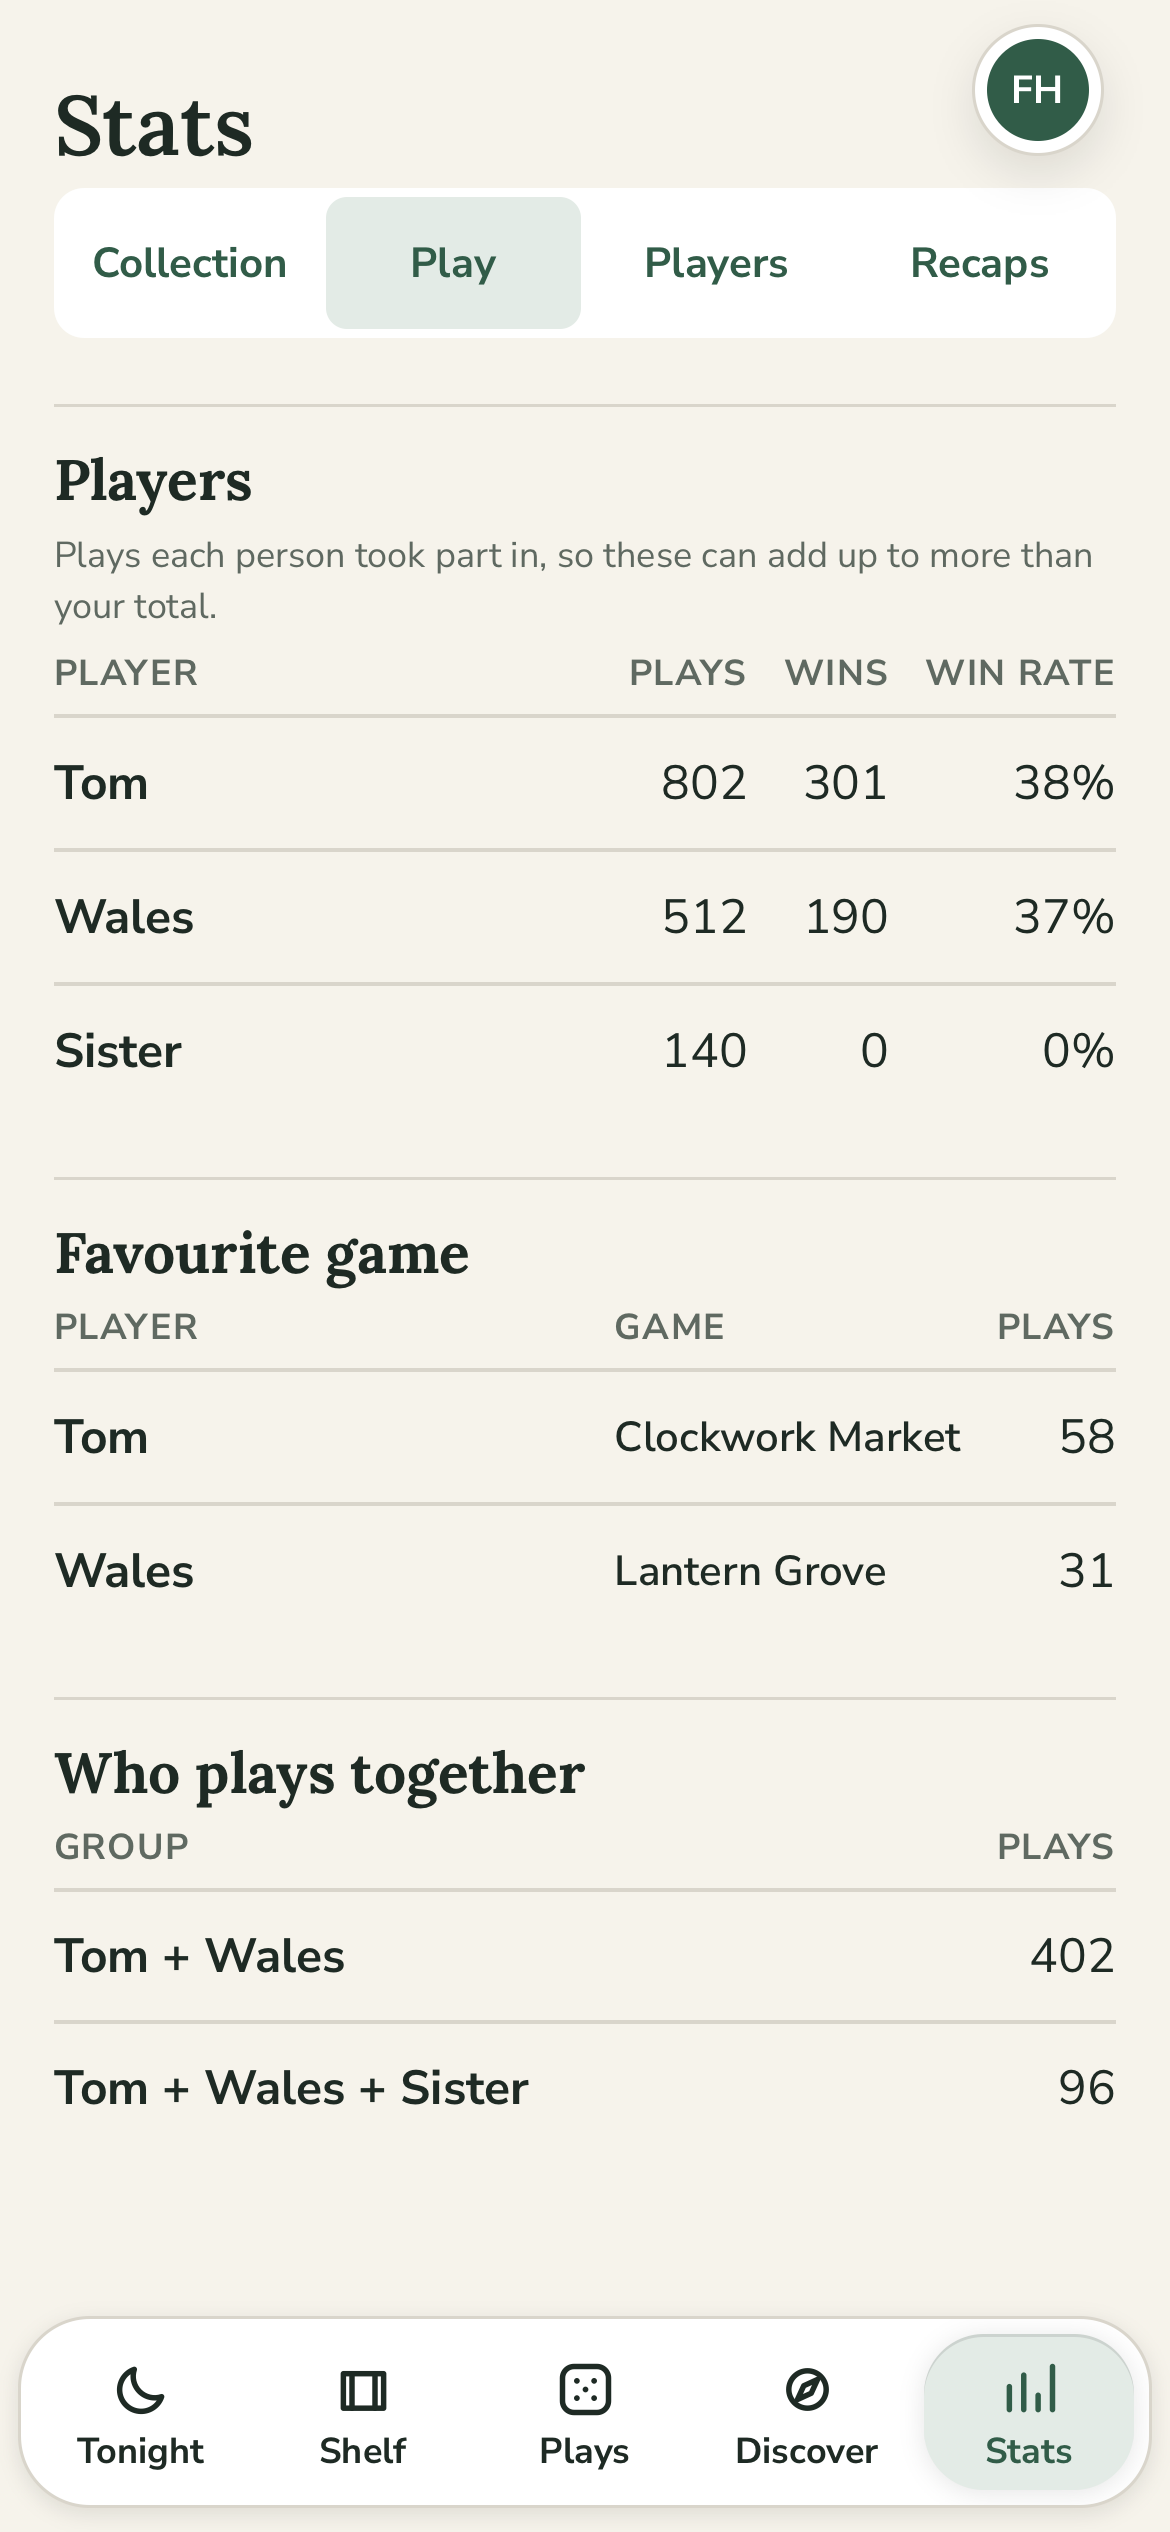
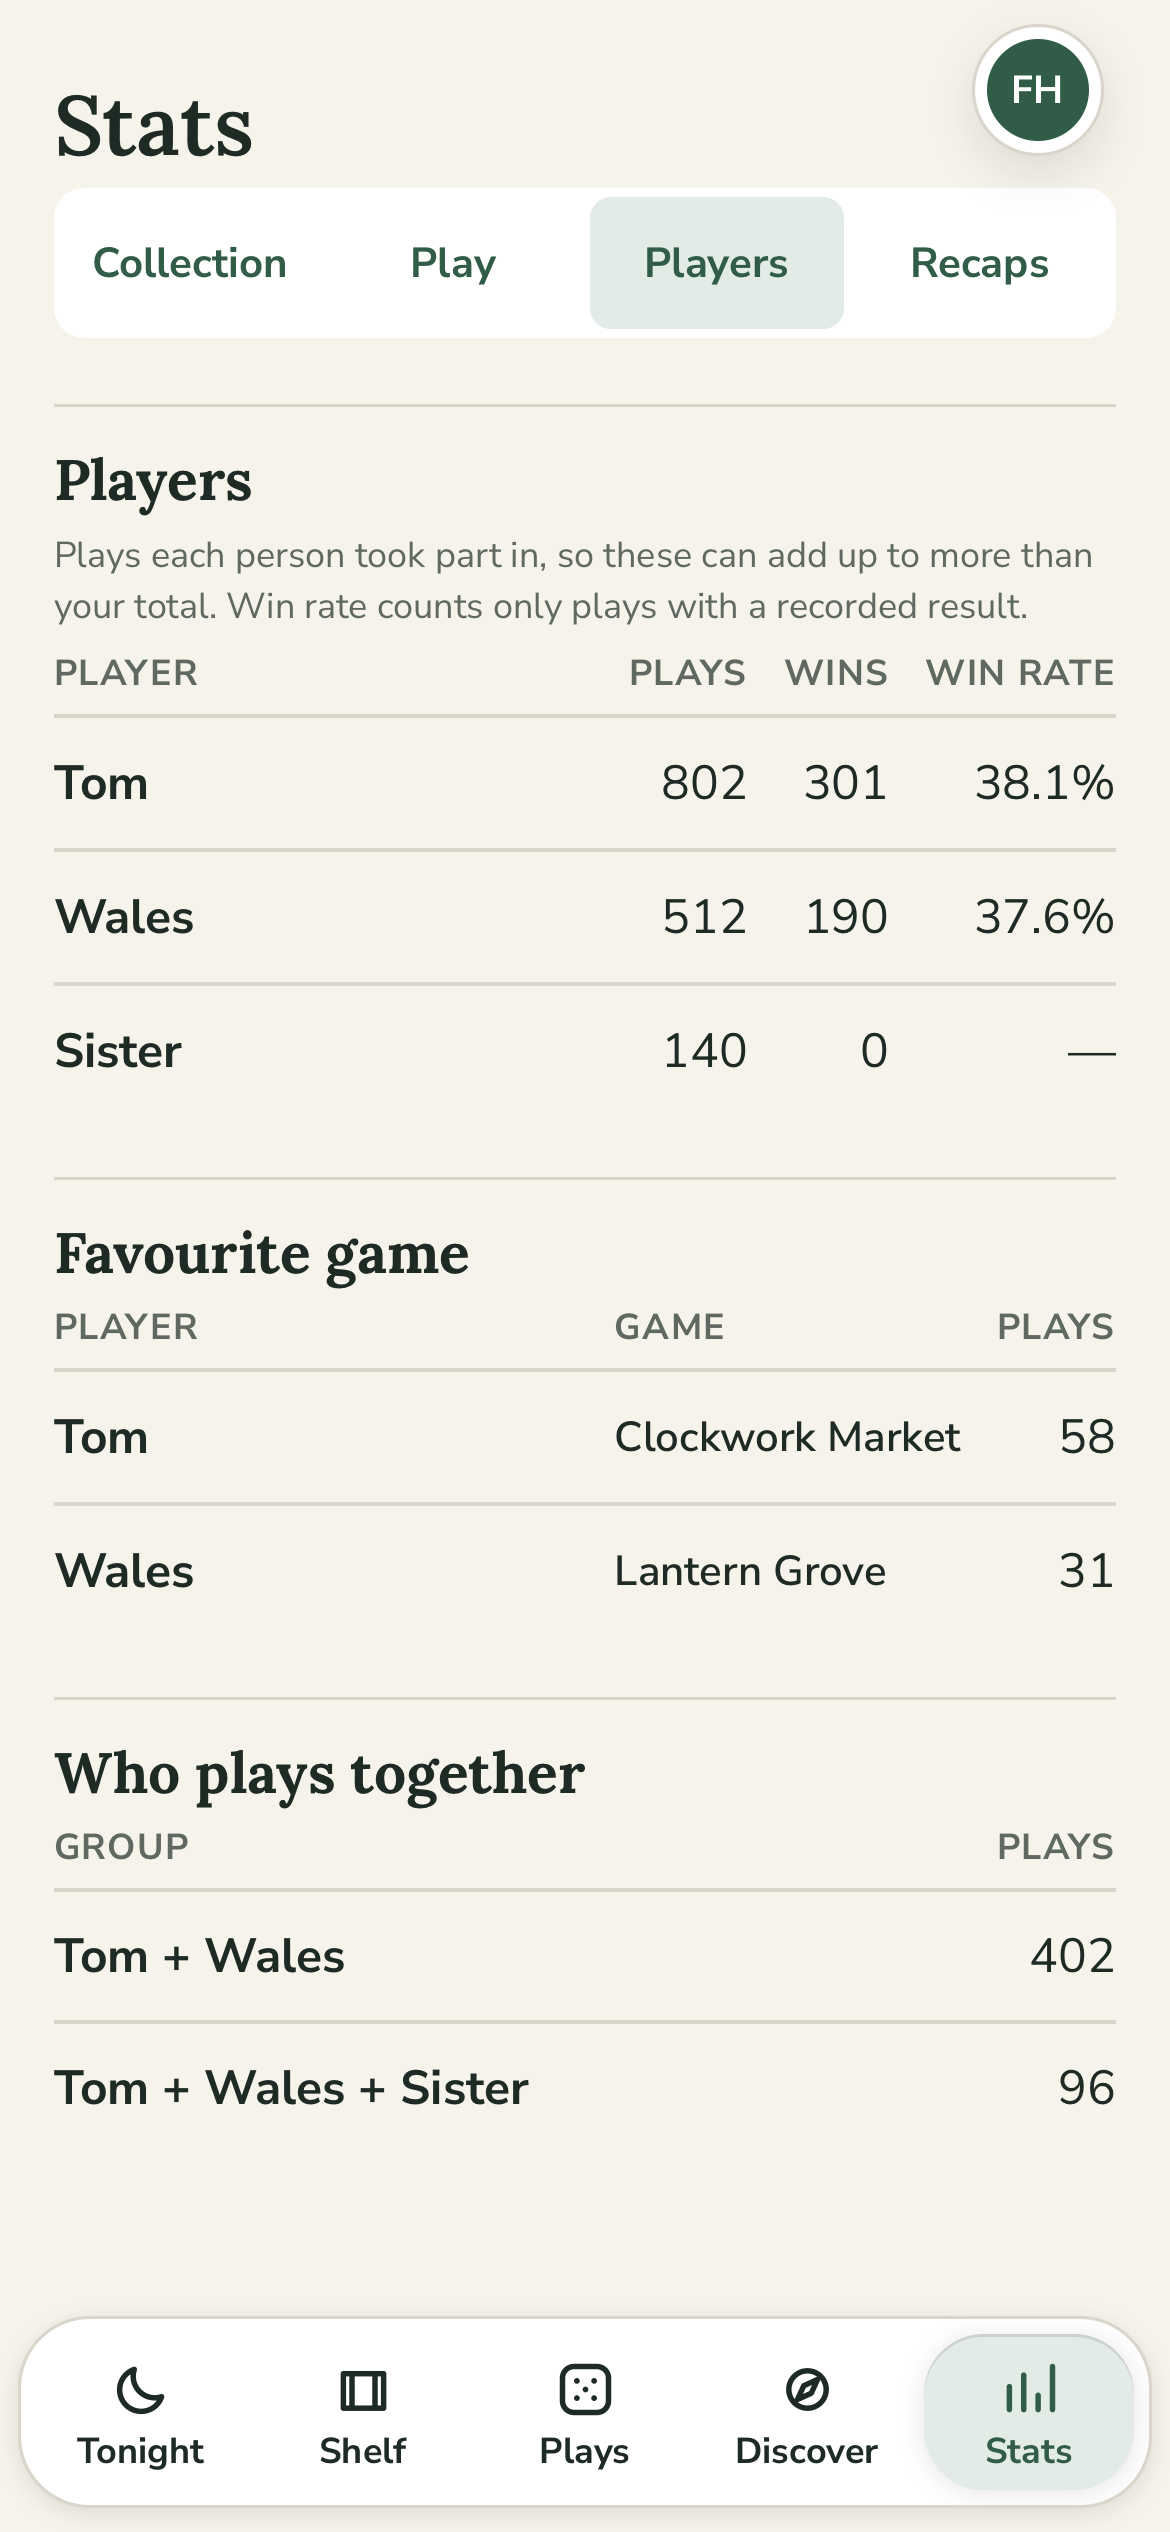
SP-UI-02: Stats win rate uses decided plays, matching the player profile
Owner decision: win rate = wins / decided plays (wins, losses, draws);
plays with no recorded result are left out. The Stats player table now
counts wins and decided plays with the profile's outcome rules (so co-op
wins count) and formats the rate the same way. Tested against the profile
endpoint on the same plays.

diff --git a/frontend/e2e/ui-stats.spec.ts b/frontend/e2e/ui-stats.spec.ts
@@ -27,9 +27,9 @@ const INSIGHTS = {
   last_played: { bgg_id: 2, name: "Lantern Grove", played_at: "2026-11-14T19:00:00Z" },
   never_played_count: 23,
   frequent_players: [
-    { id: 1, name: "Tom", play_count: 802, win_count: 301 },
-    { id: 2, name: "Wales", play_count: 512, win_count: 190 },
-    { id: 3, name: "Sister", play_count: 140, win_count: 0 },
+    { id: 1, name: "Tom", play_count: 802, win_count: 301, decided_count: 790 },
+    { id: 2, name: "Wales", play_count: 512, win_count: 190, decided_count: 505 },
+    { id: 3, name: "Sister", play_count: 140, win_count: 0, decided_count: 0 },
   ],
   monthly_activity: { plays: 12, unique_games: 7, new_games: 1, repeat_plays: 5, recent_plays: [] },
   neglected_games: [
@@ -102,8 +102,9 @@ for (const scheme of ["light", "dark"] as const) {
 
     await openSection(page, "Players")
     await expect(page.getByRole("columnheader", { name: "Win rate" })).toBeVisible()
-    await expect(page.getByRole("row", { name: /Tom/ }).getByText("38%")).toBeVisible()
-    await expect(page.getByRole("row", { name: /Sister/ }).getByText("0%")).toBeVisible()
+    // Wins / decided plays, as on the player profile.
+    await expect(page.getByRole("row", { name: /Tom/ }).getByText("38.1%")).toBeVisible()
+    await expect(page.getByRole("row", { name: /Sister/ }).getByText("—")).toBeVisible()
     await expect(page.getByText("marked winner")).toHaveCount(0)
     await expect(page.getByRole("heading", { name: "Favourite game" })).toBeVisible()
     await page.screenshot({ path: `${SHOTS}/stats-players-390-${scheme}.png`, fullPage: true })

diff --git a/frontend/src/components/InsightsView.tsx b/frontend/src/components/InsightsView.tsx
@@ -639,7 +639,7 @@ function InsightsView({
             </div>
 
             <p className="stats-table-note">
-              Plays each person took part in, so these can add up to more than your total.
+              Plays each person took part in, so these can add up to more than your total. Win rate counts only plays with a recorded result.
             </p>
 
             <table className="stats-table">
@@ -665,7 +665,7 @@ function InsightsView({
                     </th>
                     <td>{player.play_count}</td>
                     <td>{player.win_count}</td>
-                    <td>{playerWinRateCopy(player.win_count, player.play_count)}</td>
+                    <td>{playerWinRateCopy(player.win_count, player.decided_count)}</td>
                   </tr>
                 ))}
               </tbody>

diff --git a/frontend/src/insights-format.ts b/frontend/src/insights-format.ts
@@ -18,12 +18,14 @@ export function durationCoverageCopy(
   return `Timed on ${durationPlays} of ${totalPlays} ${totalPlays === 1 ? "play" : "plays"}`
 }
 
-// Stats player table: wins over the plays that player took part in.
+// Stats player table: the same rule and format as the player profile.
+// Win rate = wins / decided plays (wins, losses and draws); plays with no
+// recorded result are left out. Rounded to one decimal, as the backend does.
 export function playerWinRateCopy(
   wins: number,
-  plays: number,
+  decided: number,
 ): string {
-  return plays > 0 ? `${Math.round((wins / plays) * 100)}%` : "—"
+  return winRateCopy(decided > 0 ? Math.round((wins / decided) * 1000) / 10 : null)
 }
 
 export function winRateCopy(

diff --git a/frontend/src/api/client.ts b/frontend/src/api/client.ts
@@ -277,6 +277,8 @@ export interface PlayerSummary {
   name: string
   play_count: number
   win_count: number
+  // Plays with a known result (win, loss or draw); the win-rate denominator.
+  decided_count: number
 }
 
 export interface CollectionInsights {

diff --git a/backend/repositories/insights_repository.py b/backend/repositories/insights_repository.py
@@ -2,7 +2,7 @@ from sqlalchemy import case, func
 from sqlalchemy.dialects.postgresql import (
     aggregate_order_by,
 )
-from sqlalchemy.orm import Session
+from sqlalchemy.orm import Session, selectinload
 
 from database.models import (
     Game,
@@ -11,6 +11,7 @@ from database.models import (
     Player,
     UserGame,
 )
+from repositories.play_read_repository import _participant_outcome
 from models.collection_insights import (
     GamePlaySummary,
     LastPlayedGame,
@@ -322,6 +323,10 @@ class InsightsRepository:
         self,
         limit: int = 5,
     ) -> list[PlayerSummary]:
+        """Players by plays they took part in. Wins and decided plays use the
+        same outcome rules as the player profile, so the two win rates agree:
+        win rate = wins / decided plays (wins + losses + draws); plays with
+        no recorded result are left out of the rate."""
         if self.user_id is None:
             return []
 
@@ -329,63 +334,49 @@ class InsightsRepository:
             self.db.query(
                 Player.id,
                 Player.name,
-                func.count(
-                    PlayParticipant.id
-                ).label(
-                    "play_count"
-                ),
-                func.sum(
-                    case(
-                        (
-                            PlayParticipant
-                            .is_winner
-                            .is_(True),
-                            1,
-                        ),
-                        else_=0,
-                    )
-                ).label(
-                    "win_count"
-                ),
+                func.count(PlayParticipant.id).label("play_count"),
             )
-            .join(
-                PlayParticipant,
-                PlayParticipant.player_id
-                == Player.id,
-            )
-            .join(
-                Play,
-                Play.id
-                == PlayParticipant.play_id,
-            )
+            .join(PlayParticipant, PlayParticipant.player_id == Player.id)
+            .join(Play, Play.id == PlayParticipant.play_id)
             .filter(
-                Player.user_id
-                == self.user_id,
-                Play.user_id
-                == self.user_id,
+                Player.user_id == self.user_id,
+                Play.user_id == self.user_id,
             )
-            .group_by(
-                Player.id,
-                Player.name,
-            )
-            .order_by(
-                func.count(
-                    PlayParticipant.id
-                ).desc(),
-                Player.name,
-            )
+            .group_by(Player.id, Player.name)
+            .order_by(func.count(PlayParticipant.id).desc(), Player.name)
             .limit(limit)
             .all()
         )
+        if not rows:
+            return []
+
+        wins = {row.id: 0 for row in rows}
+        decided = {row.id: 0 for row in rows}
+        participants = (
+            self.db.query(PlayParticipant, Play, Game)
+            .join(Play, Play.id == PlayParticipant.play_id)
+            .join(Game, Game.id == Play.game_id)
+            .options(selectinload(Game.mechanics))
+            .filter(
+                PlayParticipant.player_id.in_(list(wins)),
+                Play.user_id == self.user_id,
+            )
+            .all()
+        )
+        for participant, play, game in participants:
+            outcome = _participant_outcome(participant, play, game)
+            if outcome == "win":
+                wins[participant.player_id] += 1
+            if outcome in ("win", "loss", "draw"):
+                decided[participant.player_id] += 1
 
         return [
             PlayerSummary(
                 id=row.id,
                 name=row.name,
                 play_count=row.play_count,
-                win_count=(
-                    row.win_count or 0
-                ),
+                win_count=wins[row.id],
+                decided_count=decided[row.id],
             )
             for row in rows
         ]

diff --git a/backend/tests/test_play_edit_api.py b/backend/tests/test_play_edit_api.py
@@ -304,6 +304,16 @@ def test_player_profile_and_history_use_new_outcomes(api):
     stats = client.get(f"/players/{alex['id']}/stats").json()
     assert (stats["wins"], stats["losses"], stats["unknown_results"]) == (2, 1, 1)
     assert stats["win_rate"] == 66.7
+    # Stats › Players uses the same rule: wins / decided plays (co-op wins
+    # count; the play with no recorded result is left out of the rate).
+    with Session() as db:
+        from repositories.insights_repository import InsightsRepository
+        summary = next(
+            p for p in InsightsRepository(db, user_id=1).get_frequent_players()
+            if p.name == "Alex"
+        )
+    assert (summary.play_count, summary.win_count, summary.decided_count) == (4, 2, 3)
+    assert round(summary.win_count / summary.decided_count * 100, 1) == stats["win_rate"]
     history = client.get("/games/100/plays").json()
     assert history["recent_plays"][0]["outcome_type"] in {
         "competitive", "cooperative"
@@ -393,6 +403,7 @@ def test_list_plays_counts_every_play_on_the_account(api):
         alex = [p for p in insights.get_frequent_players(limit=10) if p.name == "Alex"]
         # A player's count is the plays they took part in (different by design).
         assert alex and alex[0].play_count == 2
+        assert (alex[0].win_count, alex[0].decided_count) == (2, 2)
 
 
 def test_list_plays_empty_and_validates_paging(api):

diff --git a/backend/tests/test_insights_service.py b/backend/tests/test_insights_service.py
@@ -62,12 +62,14 @@ class FakeInsightsRepository:
                 name="Tom",
                 play_count=10,
                 win_count=4,
+                decided_count=8,
             ),
             PlayerSummary(
                 id=2,
                 name="Wales",
                 play_count=8,
                 win_count=3,
+                decided_count=8,
             ),
         ]
     

diff --git a/backend/models/collection_insights.py b/backend/models/collection_insights.py
@@ -22,6 +22,8 @@ class PlayerSummary:
     name: str
     play_count: int
     win_count: int
+    # Plays with a known result (win, loss or draw); the win-rate denominator.
+    decided_count: int
 
 
 @dataclass

diff --git a/docs/SP-UI-02-REPORT.md b/docs/SP-UI-02-REPORT.md
@@ -34,7 +34,7 @@ Branch `codex/sp-ui-02`, worktree `~/Developer/_worktrees/shelfpick/sp-ui-02`, b
 - "Stats" everywhere, including Settings copy.
 - Collection: one sync explanation with "Sync collection ›", and empty Shelf leaders tiles are hidden.
 - Play: "All time" label and "Timed on X of Y plays".
-- Players: Plays / Wins / Win rate columns, with "Plays each person took part in". "Most played together" ranked each player's top game, so it is now **Favourite game**. Real groups stay under "Who plays together".
+- Players: Plays / Wins / Win rate columns, with "Plays each person took part in". **Win rate = wins ÷ decided plays** (owner decision, 17 Nov). Decided plays are wins, losses and draws; plays with no recorded result are left out. The table and the player profile use the same outcome rules and format, so they show identical numbers. Co-op wins now count in the table too: it used to read only the raw winner flag. "Most played together" ranked each player's top game, so it is now **Favourite game**. Real groups stay under "Who plays together".
 - Recaps: compact ‹ › month buttons, and "3 different games, one play each" for single-play months.
 - Year in review: segments and counter come from one helper (tested). Buttons have equal heights, the slide is shorter and celebratory, and "Timed on" is hidden at 100%.
 
@@ -79,7 +79,6 @@ Screenshots:
 - **After:** `docs/screenshots/sp-ui-02/after/` (every tab's end state, Tonight steps, Stats sections, play-logging flows), `checkpoint/`, `simulator/`. Browser covers are synthetic sample art.
 
 ## Risks and open points
-- **Owner decision:** the Stats table's win rate is wins ÷ plays taken part in. The player profile uses wins ÷ decided plays, so the two can show different numbers.
 - Off-shelf plays in the Plays tab are read-only, because the backend refuses edits to games not on the shelf.
 - Not tested: real BGG covers, VoiceOver, physical device, the keyboard on a real phone. The Simulator's text entry was unreliable, so scores were entered only in the browser tests.
 - **Deploy the backend before the app build:** `GET /plays` changed shape (additive `game`) and scope (all plays).
